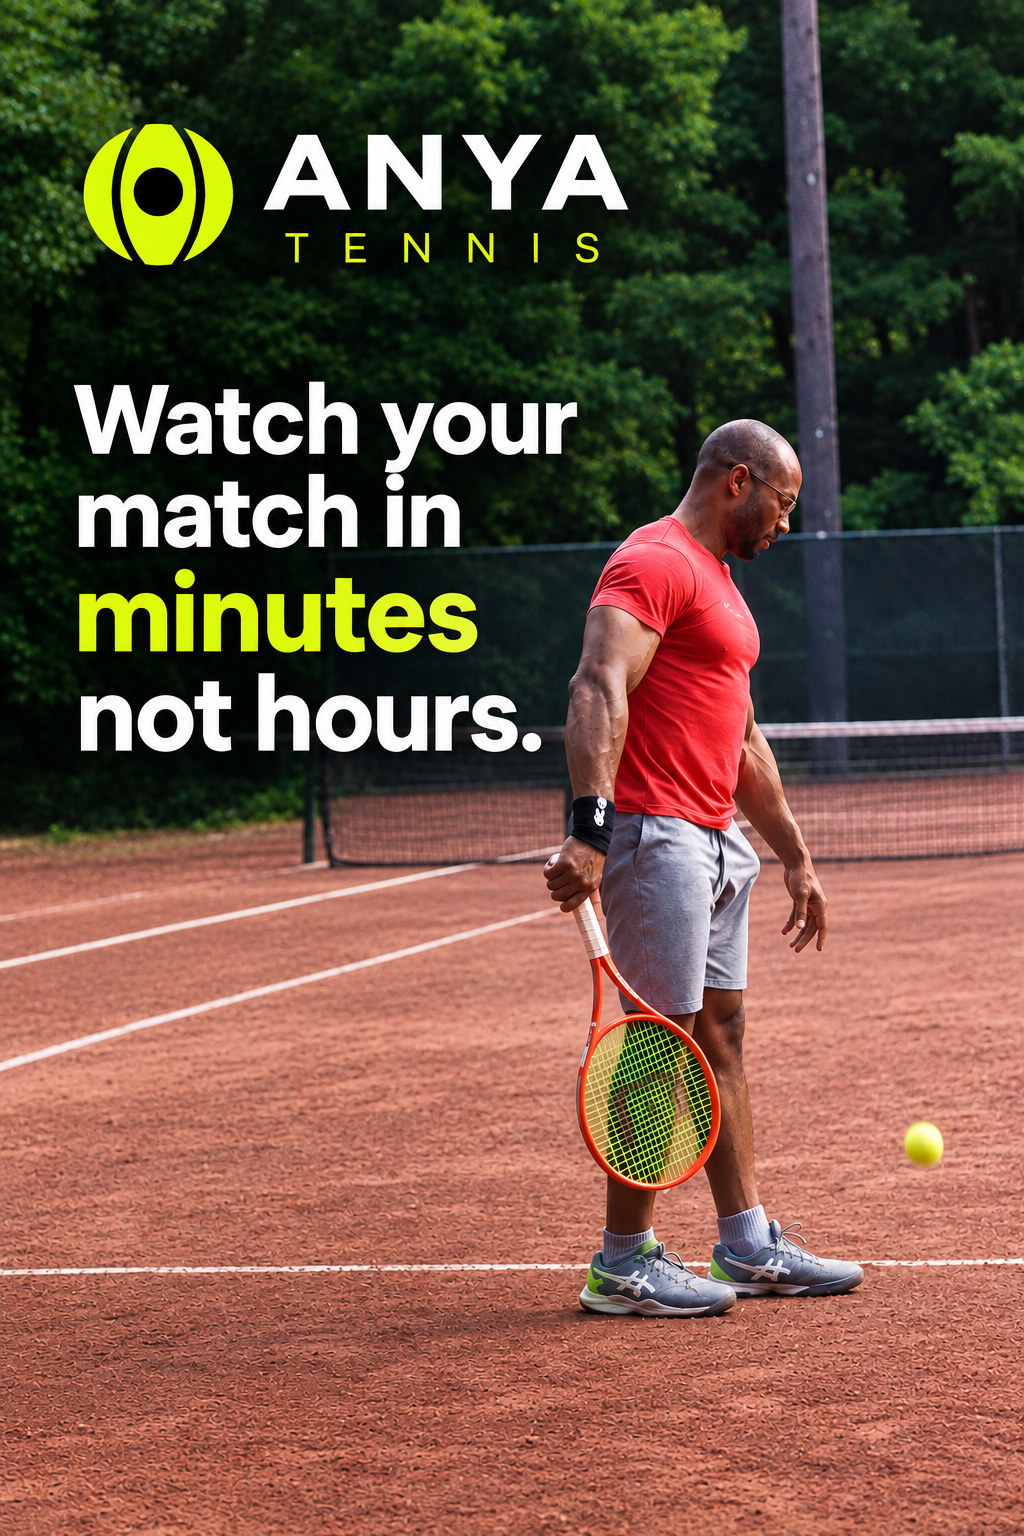
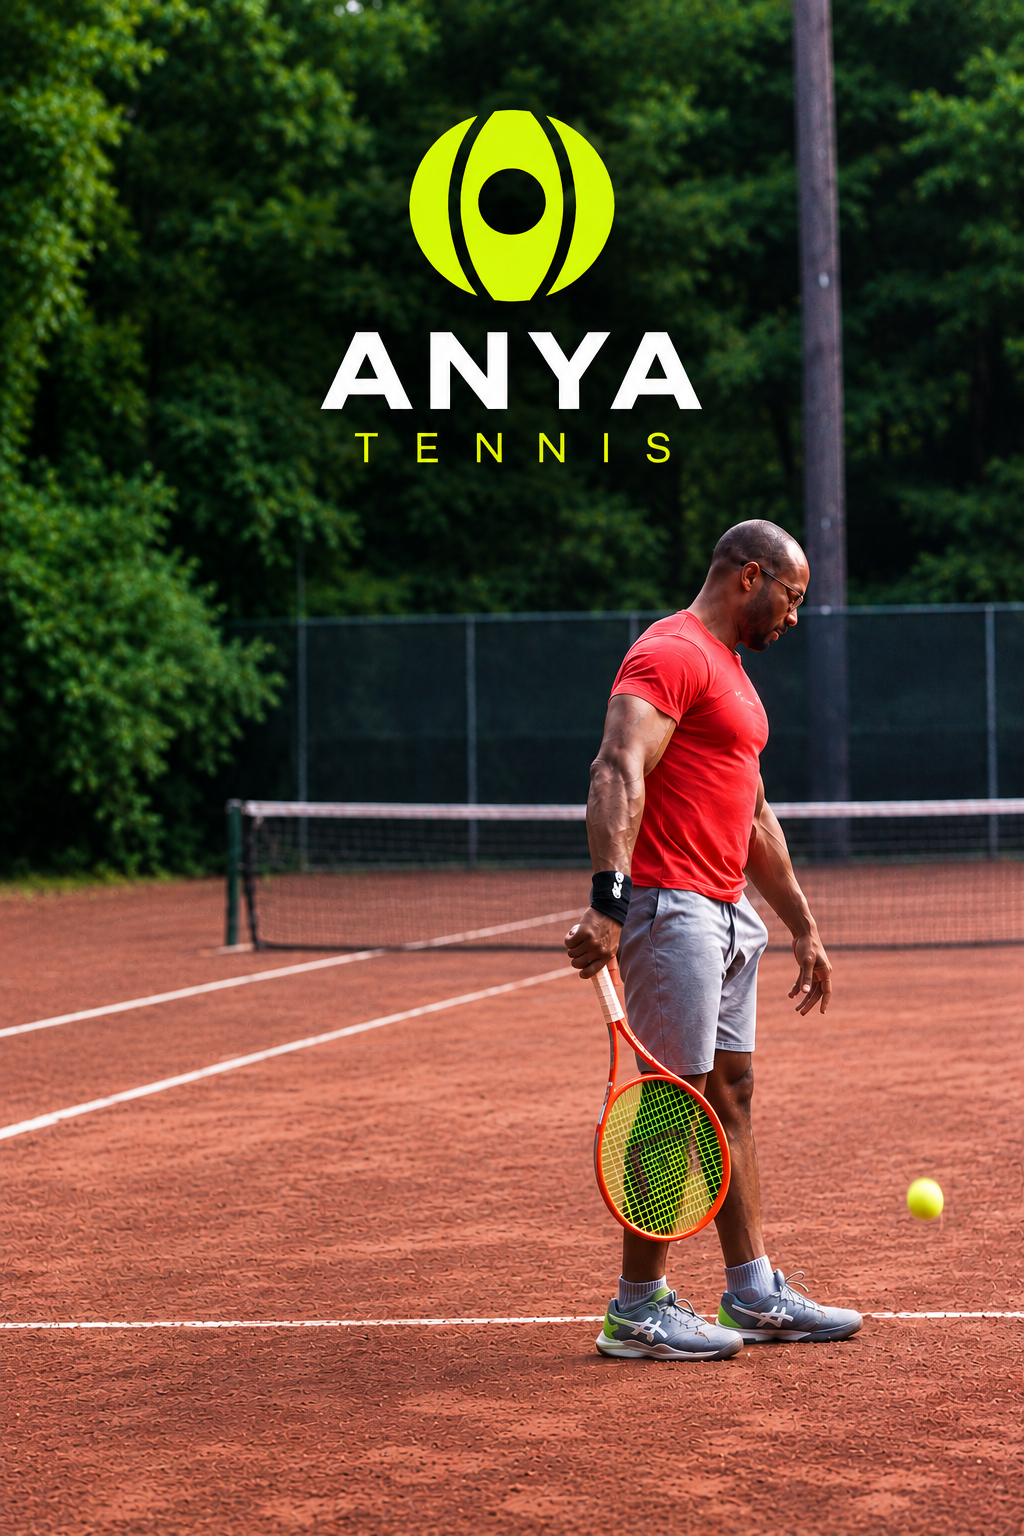
Add files via upload

diff --git a/index.html b/index.html
@@ -17,11 +17,14 @@
     </header>
 
     <section class="hero-content">
+      <div class="announcement">
+        <span class="dot"></span>
+        COMING SOON
+      </div>
 
+      <h1>Watch your match in minutes,<br><span>not hours.</span></h1>
 
       <p class="launch-date">September 18, 2026</p>
-      <p class="platforms">COMING SOON &amp; PC</p>
-
       <p class="platforms">For macOS &amp; PC</p>
     </section>
 
